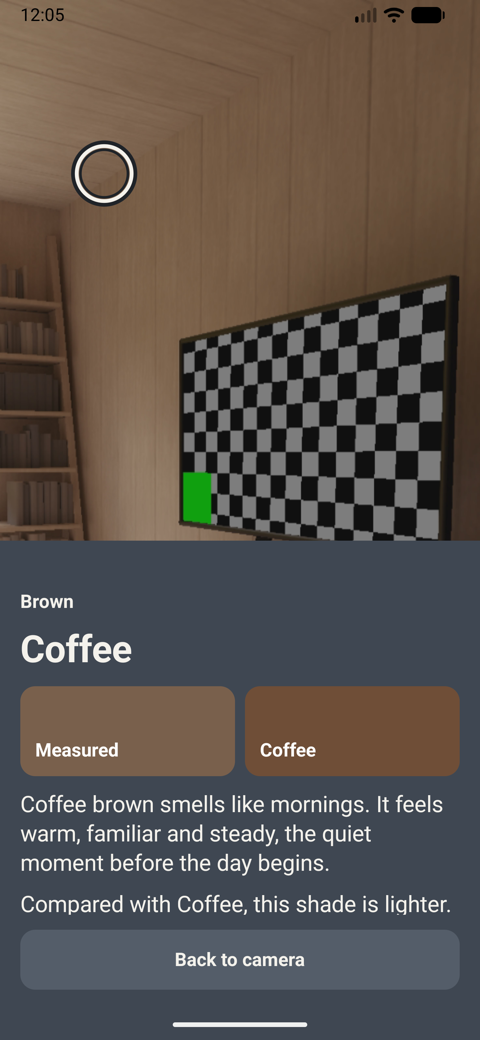
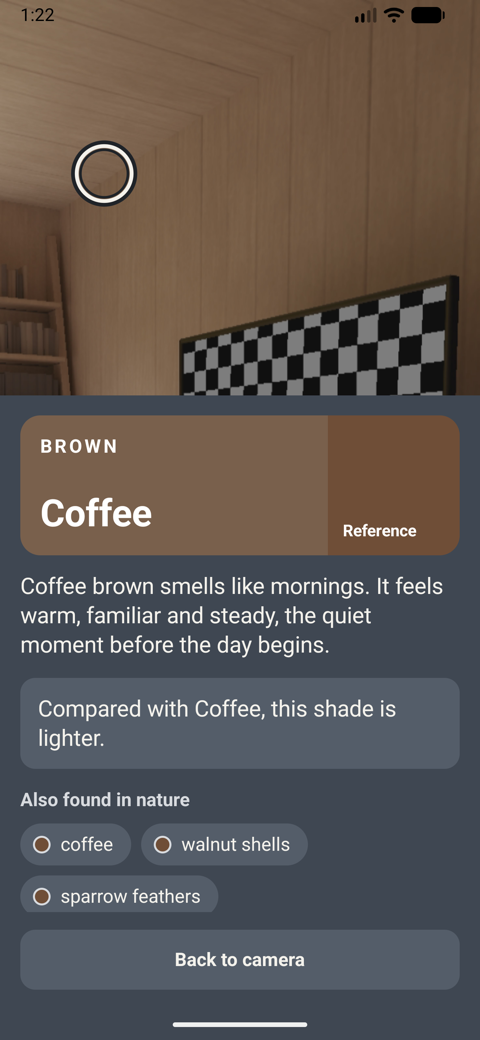
Fiche ajustée au format téléphone, captures refaites
Fiche: hauteur max 62 %, bandeau 112 dp, indication de toucher dans la zone qui défile, marges système seulement du côté où la fiche touche le bord, même côté que le panneau du direct en paysage. Captures émulateur (format S26 Ultra) et site mis à jour. Tablette 20/20.

Changed region(s): [[0.0, 0.3692, 1.0, 0.8923], [0.0625, 0.0, 0.125, 0.0308]]

diff --git a/app/src/main/kotlin/com/morialkar/goosescope/app/ui/FrozenScreen.kt b/app/src/main/kotlin/com/morialkar/goosescope/app/ui/FrozenScreen.kt
@@ -29,7 +29,12 @@ import androidx.compose.foundation.layout.height
 import androidx.compose.foundation.layout.heightIn
 import androidx.compose.foundation.layout.offset
 import androidx.compose.foundation.layout.padding
-import androidx.compose.foundation.layout.safeDrawingPadding
+import androidx.compose.foundation.layout.WindowInsets
+import androidx.compose.foundation.layout.WindowInsetsSides
+import androidx.compose.foundation.layout.only
+import androidx.compose.foundation.layout.plus
+import androidx.compose.foundation.layout.safeDrawing
+import androidx.compose.foundation.layout.windowInsetsPadding
 import androidx.compose.foundation.layout.size
 import androidx.compose.foundation.layout.width
 import androidx.compose.foundation.rememberScrollState
@@ -100,13 +105,17 @@ fun FrozenScreen(state: ScopeState.Frozen, lang: Lang, viewModel: ScopeViewModel
         // La fiche entre en glissant, et ne couvre jamais le point visé (STANDARDS §4).
         val entered = remember { MutableTransitionState(false).apply { targetState = true } }
         if (landscape) {
-            val onRight = tx < viewW / 2f
+            // Même marge qu'en portrait: au centre, la fiche reste du même côté que le panneau du direct.
+            val onRight = tx < viewW * 0.55f
             AnimatedVisibility(
                 entered,
                 Modifier.align(if (onRight) Alignment.CenterEnd else Alignment.CenterStart),
                 enter = fadeIn(tween(220)) + slideInVertically(tween(320)) { it / 6 },
             ) {
-                DetailSheet(state.detail, lang, viewModel, Modifier.fillMaxHeight().width(400.dp))
+                DetailSheet(
+                    state.detail, lang, viewModel, Modifier.fillMaxHeight().width(400.dp),
+                    WindowInsetsSides.Vertical + if (onRight) WindowInsetsSides.End else WindowInsetsSides.Start,
+                )
             }
         } else {
             // Marge autour du centre: au départ le point visé est au centre et la fiche reste en bas.
@@ -116,16 +125,20 @@ fun FrozenScreen(state: ScopeState.Frozen, lang: Lang, viewModel: ScopeViewModel
                 Modifier.align(if (atBottom) Alignment.BottomCenter else Alignment.TopCenter),
                 enter = fadeIn(tween(220)) + slideInVertically(tween(320)) { if (atBottom) it / 3 else -it / 3 },
             ) {
-                DetailSheet(state.detail, lang, viewModel, Modifier.fillMaxWidth().heightIn(max = maxHeight * 0.55f))
+                DetailSheet(
+                    state.detail, lang, viewModel, Modifier.fillMaxWidth().heightIn(max = maxHeight * 0.62f),
+                    WindowInsetsSides.Horizontal + if (atBottom) WindowInsetsSides.Bottom else WindowInsetsSides.Top,
+                )
             }
         }
     }
 }
 
 @Composable
-private fun DetailSheet(detail: Detail, lang: Lang, viewModel: ScopeViewModel, modifier: Modifier) {
+private fun DetailSheet(detail: Detail, lang: Lang, viewModel: ScopeViewModel, modifier: Modifier, edges: WindowInsetsSides) {
+    // Marges système seulement du côté où la fiche touche le bord de l'écran.
     Column(
-        modifier.background(Tokens.surface).safeDrawingPadding().padding(16.dp).testTag("detail"),
+        modifier.background(Tokens.surface).windowInsetsPadding(WindowInsets.safeDrawing.only(edges)).padding(16.dp).testTag("detail"),
         verticalArrangement = Arrangement.spacedBy(14.dp),
     ) {
         when (detail) {
@@ -150,12 +163,10 @@ private fun DetailSheet(detail: Detail, lang: Lang, viewModel: ScopeViewModel, m
                     ) { d ->
                         DetailBody(d, lang, viewModel)
                     }
+                    // Dans la zone qui défile: sur un téléphone, seul le bouton reste fixe en bas.
+                    Label(stringResource(R.string.detail_tap_hint), Tokens.labelSize, color = Tokens.textMuted)
                 }
             }
-        }
-        // Image entière trop sombre: viser ailleurs ne changerait rien, on ne le propose pas.
-        if (detail is Detail.Color) {
-            Label(stringResource(R.string.detail_tap_hint), Tokens.labelSize, color = Tokens.textMuted)
         }
         FlatButton(stringResource(R.string.resume), viewModel::resume, Modifier.fillMaxWidth().testTag("resume"))
     }
@@ -169,7 +180,7 @@ private fun DetailSheet(detail: Detail, lang: Lang, viewModel: ScopeViewModel, m
 private fun ColorHeader(detail: Detail.Color, baseName: String, shadeName: String) {
     val measured by animateColorAsState(detail.measured.toColor(), tween(380), label = "measured")
     val reference by animateColorAsState(detail.shade.ref.toColor(), tween(380), label = "reference")
-    Row(Modifier.fillMaxWidth().height(132.dp).clip(RoundedCornerShape(16.dp))) {
+    Row(Modifier.fillMaxWidth().height(112.dp).clip(RoundedCornerShape(16.dp))) {
         Column(
             Modifier.weight(0.7f).fillMaxHeight().background(measured).padding(16.dp),
             verticalArrangement = Arrangement.SpaceBetween,

diff --git a/site/index.html b/site/index.html
@@ -93,7 +93,7 @@ footer { padding-block: 32px 48px; color: var(--muted); font-size: 15px; border-
     </div>
     <div class="shots">
       <figure class="shot">
-        <img src="screenshots/live.png" width="480" height="1040" alt="Live camera view: the circle is on a checkerboard and the app says Gray.">
+        <img src="screenshots/live.png" width="480" height="1040" alt="Live camera view: the circle is on a checkerboard and the app says Gray — Charcoal.">
         <figcaption><span data-l="en">Live: point and read</span><span data-l="fr">En direct : vise et lis</span></figcaption>
       </figure>
       <figure class="shot">

diff --git a/tests/field/AC8.md b/tests/field/AC8.md
@@ -11,4 +11,11 @@
   logiciel; la mesure qui fait foi pour NF7 est celle de la tablette, AC1).
 - Limite observée: une image figée en portrait puis affichée en paysage est rognée en haut et en
   bas; le point visé peut sortir de la zone visible (le réticule disparaît). Backlog.
+- 2026-10-23 (après révision 4 et fiche animée): `live-portrait-en.png` (« Gray — Charcoal »),
+  `frozen-portrait-en.png`, `frozen-portrait-fr.png` refaites. Corrigés au passage: fiche coupée au
+  milieu de la comparaison sur téléphone (hauteur 62 %, bandeau 112 dp, indication déplacée dans la
+  zone qui défile), marge de barre d'état inutile au-dessus de la fiche, fiche qui changeait de côté
+  en paysage au moment de figer.
+- Tablette, tissu violet réel: direct « Purple — Plum », figé « Purple → Plum », toucher plus bas
+  « Purple → Grape ».
 - **En attente**: validation de Naomi contre le prompt de style.
